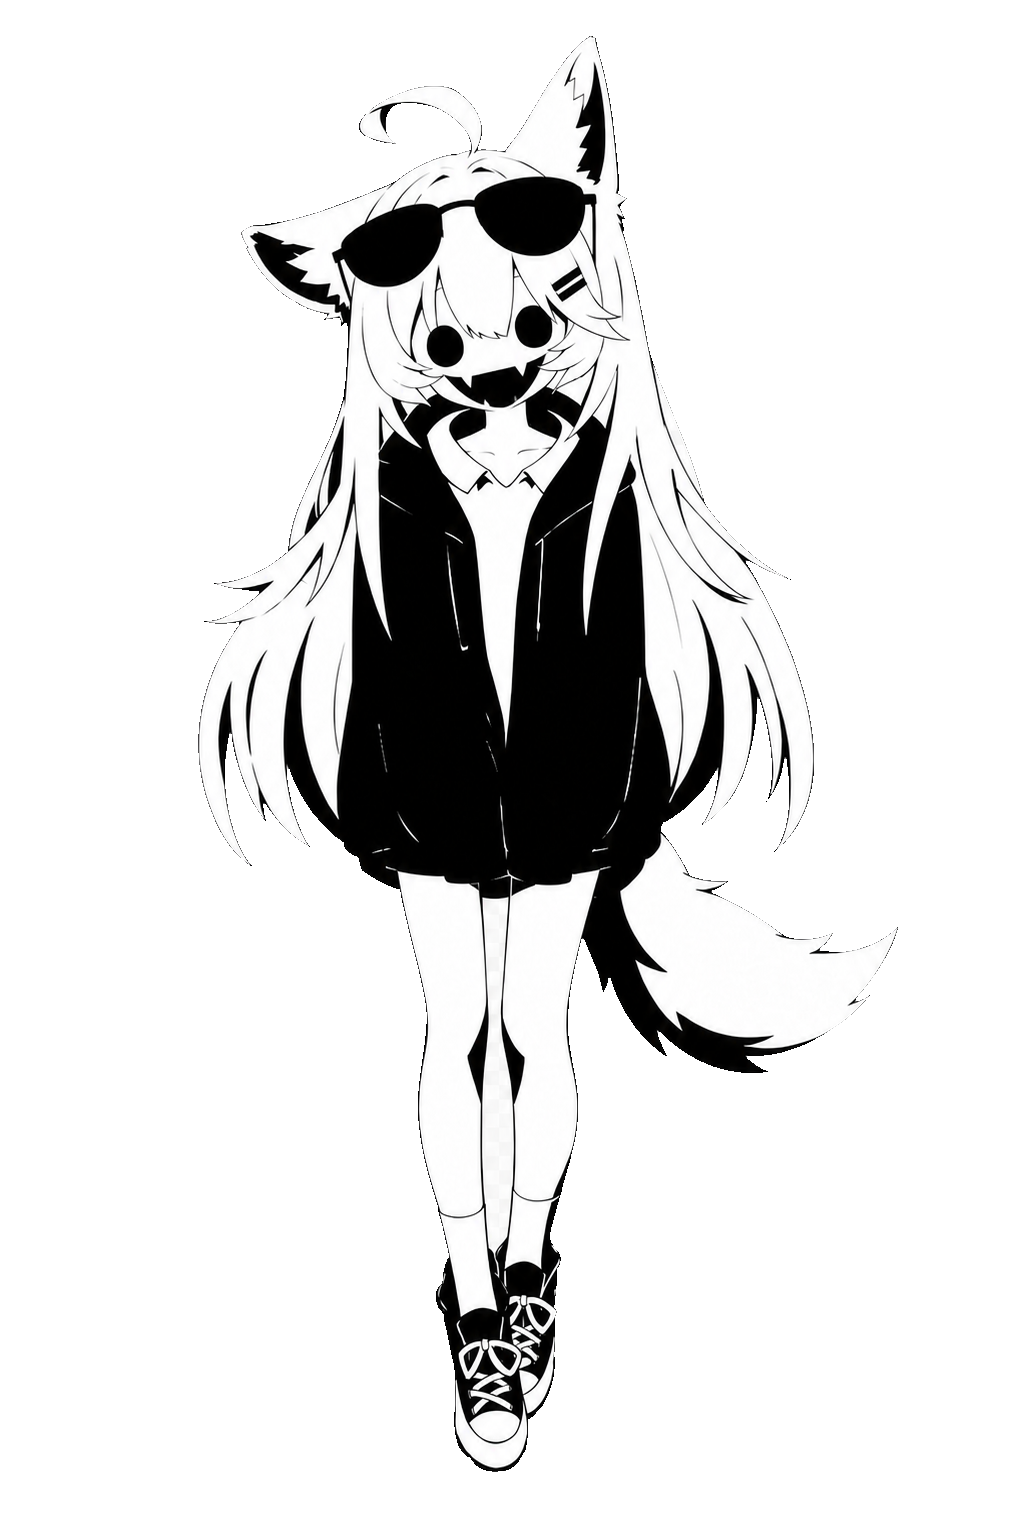
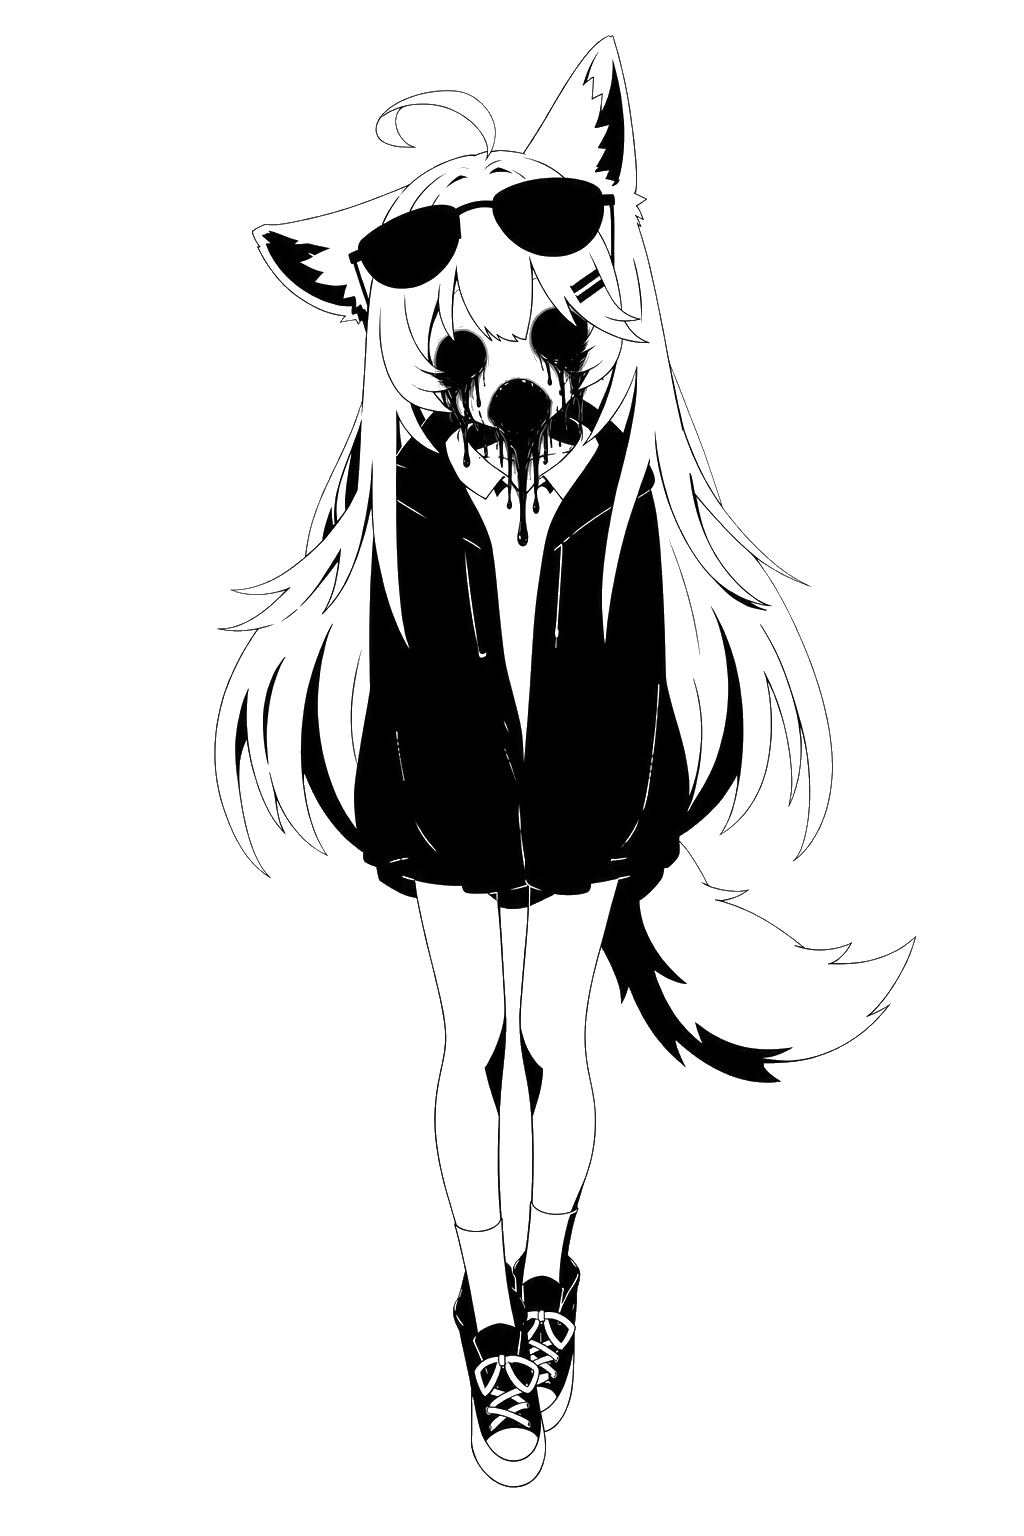
fix: deepen ghost face and add black oil drips

Changed region(s): [[0.1875, 0.0307, 0.8125, 0.9811], [0.7812, 0.6132, 0.8438, 0.6438], [0.8438, 0.6438, 0.875, 0.6745]]

diff --git a/tools/process_ghost_sprite.py b/tools/process_ghost_sprite.py
@@ -1,0 +1,39 @@
+"""Prepare the generated oil-leaking ghost sprite as a transparent runtime WebP.
+
+The image generator baked a light checkerboard into its RGB output. The dark
+closed character outline lets us remove the exterior without keying away the
+white hair, skin, clothes or tail. Requires Pillow and NumPy.
+"""
+from pathlib import Path
+import numpy as np
+from PIL import Image, ImageDraw, ImageFilter
+
+ROOT = Path(__file__).resolve().parents[1]
+SOURCE = ROOT / "generated" / "ghost-ql-oil.png"
+TARGET = ROOT / "第七个测试剧本" / "Assets" / "Pics" / "ghost-ql-bw.webp"
+
+
+def main():
+    image = Image.open(SOURCE).convert("RGB")
+    gray = image.convert("L")
+    # Close one-pixel breaks in the outline before flooding the exterior.
+    barrier = gray.point(lambda value: 255 if value > 170 else 0).filter(ImageFilter.MinFilter(3))
+    ImageDraw.floodfill(barrier, (0, 0), 128)
+    # Empty loop within the hair curl and the gap between the crossed legs.
+    for point in [(430, 127), (514, 992)]:
+        if barrier.getpixel(point) == 255:
+            ImageDraw.floodfill(barrier, point, 128)
+    mask = Image.fromarray(np.where(np.asarray(barrier) == 128, 0, 255).astype("uint8"))
+    mask = mask.filter(ImageFilter.MinFilter(3)).filter(ImageFilter.GaussianBlur(0.35))
+    # The source is monochrome line art; normalize light grid residue inside
+    # enclosed white regions while retaining gray antialiasing and oil highlights.
+    pixels = np.array(gray)
+    pixels[pixels >= 205] = 255
+    sprite = Image.fromarray(pixels).convert("RGBA")
+    sprite.putalpha(mask)
+    sprite.save(TARGET, "WEBP", lossless=True, method=6)
+    print(f"Saved {TARGET}: {sprite.size}, RGBA, transparent pixels={(np.asarray(mask)==0).sum()}")
+
+
+if __name__ == "__main__":
+    main()

diff --git a/tools/validate_ddlc_script.py b/tools/validate_ddlc_script.py
@@ -163,8 +163,8 @@ def main() -> int:
 
     try:
         manifest = json.loads((root / "dlc.json").read_text(encoding="utf-8"))
-        if manifest.get("version") != "2.12.0":
-            errors.append("dlc.json.version must be 2.12.0 for the DDLC horror-mechanics completion pass")
+        if manifest.get("version") != "2.12.1":
+            errors.append("dlc.json.version must be 2.12.1 for the oil-leaking ghost artwork update")
         min_engine = manifest.get("min_engine")
         min_parts = tuple(int(part) for part in str(min_engine).split("."))
         if len(min_parts) != 3 or min_parts < (0, 5, 3):

diff --git a/README.md b/README.md
@@ -5,6 +5,8 @@
 《第七个测试剧本》是 [LingChat](https://github.com/SlimeBoyOwO/LingChat) 的**原创 meta 恐怖剧本 DLC**：四幕多周目叙事、DDLC 风格的崩坏演出（突脸 / 立绘崩坏 / 鼠标磁吸强制选择 / 假死机 / 写诗小游戏崩坏 / 日志污染……），共 45 个章节，并按玩家选择进入解放或循环结局。
 
 
+**v2.12.1 更新**：重绘删除全部 `.chr` 剧情标记后出现的黑白幽灵立绘：双眼与嘴部变为更深的黑色空洞，黑色石油沿脸颊与下巴滴落。保留透明背景、原有角色造型、放回标记自动解锁和关闭窗口时的放大突脸演出。配套使用已同步最新 `dev` 的 PR #677 构建。
+
 **v2.11.0 更新**：把第一处 DDLC `RigMouse` 三选项提前到首周末，同时保留 Act 2 原有触发，因此正常游玩至少能遇到两次受控鼠标牵引；最终请求删除 `MAIN.chr` 前会先恢复 `ql.chr` 安全锚点并明确提示只删 `MAIN.chr`，避免两个角色标记同时缺失时被 GhostScriptLock 抢先锁在幽灵画面；各阶段幽灵菜单现在会显示 `ql.chr` / `MAIN.chr` 的实际状态。最终文件删除仍保留“留下她”的自由选择，绝不会用 RigMouse 强迫玩家删除文件。
 
 ## ⚠ 内容警告（务必阅读）
@@ -38,7 +40,7 @@
 
 本 DLC 使用了剧本引擎的扩展事件（`jumpscare` / `force_choice` / `poem_game` / `voice_shift` / `character_file` / `main_menu_effect` / `glitch_window` / `console_window` / `watch_file` 等）、组合背景特效、DLC 包管理与 `main_character` 主角锁定。文件、菜单和系统窗口能力均由引擎做剧本归属、固定样式、数量/时长与路径白名单校验，旧引擎无法完整运行 v2.11.0：
 
-- 上游支持 PR：[SlimeBoyOwO/LingChat#677](https://github.com/SlimeBoyOwO/LingChat/pull/677) 当前仍为 Draft；在合并发版前必须使用包含该 PR 最新提交的定制构建
+- 上游支持 PR：[SlimeBoyOwO/LingChat#677](https://github.com/SlimeBoyOwO/LingChat/pull/677) 尚未合并；在合并发版前必须使用包含该 PR 最新提交的定制构建
 - 最低版本：LingChat `0.5.3`；导入/扫描会强制校验 `dlc.json.min_engine`，旧构建没有带活动票据、焦点/边界校验、Esc/失焦取消和后端 forced 校验的安全鼠标抢夺能力
 - `main_character: DeepSeek` 要求全局角色库中保留 `data/game_data/characters/DeepSeek/settings.yml`；进入剧本后角色切换和读档会暂时锁定，退出时恢复原主角
 - 新版导入会在 `data/.dlc-import/` 扫描区外做有界解压（条目数、文件/总量、路径与压缩比限制），校验并刷盘后才用同盘原子重命名提交

diff --git a/DESIGN-v2.md b/DESIGN-v2.md
@@ -32,7 +32,7 @@
 | 删 monika.chr | 她请求玩家删除本 DLC 自己的 `MAIN.chr` 纯文本标记；引擎按完整 path_key 隔离、复查并提供重置恢复 ✅ |
 | 假报错/假控制台/BSOD | 动态 BSOD 效果 + horror_log + 最多 4 个/12 秒的本地安全辅助窗口（不执行命令）✅ |
 | 崩坏菜单/ghost menu | 可持久化的 blood/ghost 固定标题预设 + ghostmenu 变调；blood 是 LingChat 原创适配 ✅ |
-| ghost menu（删完全部 .chr） | 引擎级"幽灵锁定"：进入剧本被锁成黑白崩坏教室背景（`Assets/Pics/ghost-bg-bw.webp`，codex 生成的纯灰度废弃深夜教室，压暗垫底）+ 黑白恐怖立绘（`Assets/Pics/ghost-ql-bw.webp`，codex 生成的钦灵 menu_art_m_ghost 同款空心黑眼黑白风）+ ghostmenu.ogg 循环，**不给任何文字和按钮**——唯一的出路是玩家自己把任一 .chr 放回标记目录（2 秒内轮询自动解锁），或者点窗口 X：白底放大脸突脸（DDLC `label quit` 的 zoom 3.5 同款）+ s_kill_glitch1 后真正退出 ✅ |
+| ghost menu（删完全部 .chr） | 引擎级"幽灵锁定"：进入剧本被锁成黑白崩坏教室背景（`Assets/Pics/ghost-bg-bw.webp`，codex 生成的纯灰度废弃深夜教室，压暗垫底）+ 黑白恐怖立绘（`Assets/Pics/ghost-ql-bw.webp`，钦灵黑白幽灵，v2.12.1 加深空洞眼眶和嘴部，并让黑色石油沿脸颊、下巴滴落）+ ghostmenu.ogg 循环，**不给任何文字和按钮**——唯一的出路是玩家自己把任一 .chr 放回标记目录（2 秒内轮询自动解锁），或者点窗口 X：白底放大脸突脸（DDLC `label quit` 的 zoom 3.5 同款）+ s_kill_glitch1 后真正退出 ✅ |
 | 台词篡改+历史灭迹 | 乱码台词变体 + horror_log 污染（已有）✅ |
 | 反色/噪点/血管/撕裂 | background_effect 全套（已有）✅ |
 | 语音恶魔化 | voice_shift rate+pitch（刚做完）✅ |
